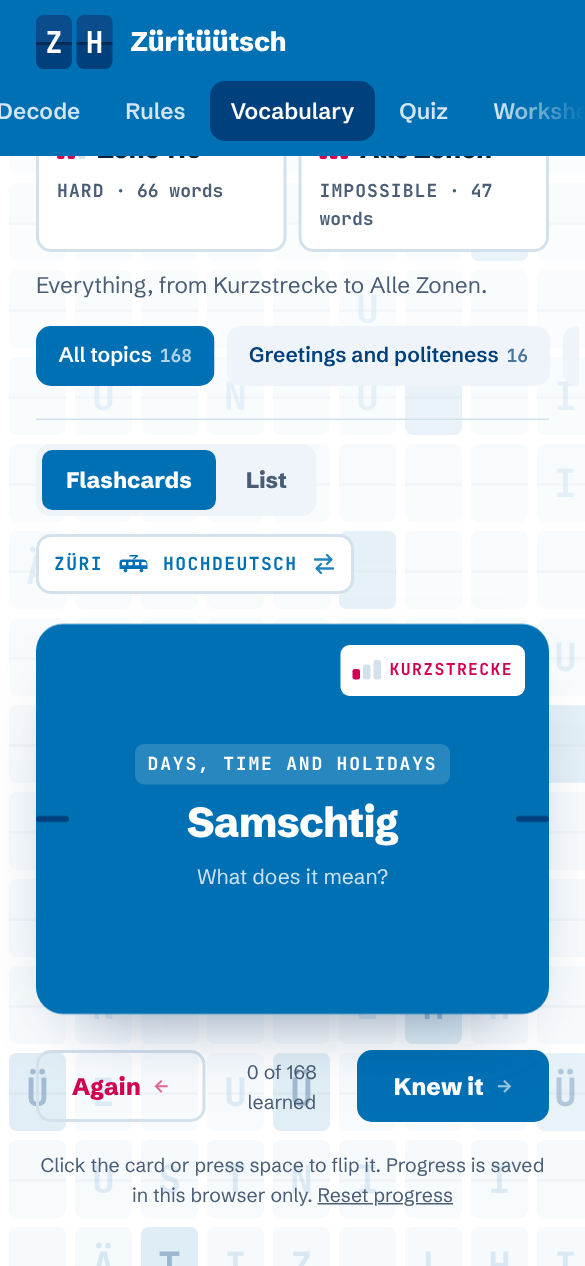
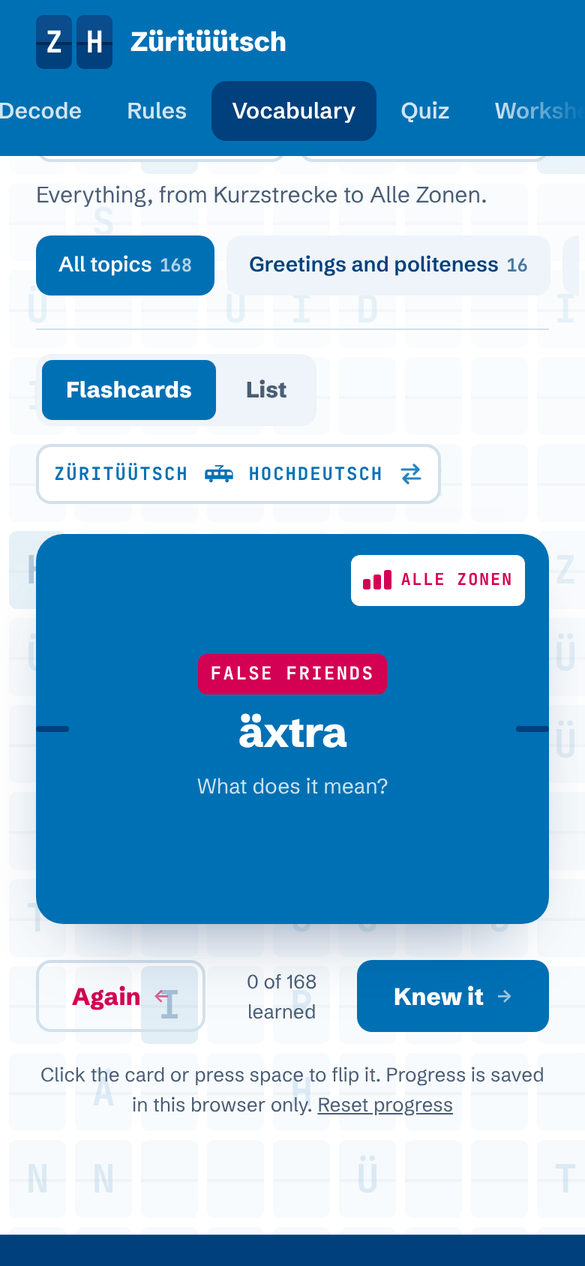
Footer sign-off, ß in Hochdeutsch, Standard German wording, Züritüütsch labels

diff --git a/data.js b/data.js
@@ -33,7 +33,7 @@ const RULES = [
     explain: "Many words with ei keep the old long i that Standard German turned into ei.",
     examples: [["Zeit", "Ziit"], ["mein", "miin"], ["bleiben", "bliibe"], ["schreiben", "schriibe"], ["Eis", "Iis"]],
     reverse: "Hear ii? Try ei.",
-    caveat: "Not every ei moves: zwei, heiss and Fleisch stay the same."
+    caveat: "Not every ei moves: zwei, heiß and Fleisch stay the same."
   },
   {
     id: "au",
@@ -58,15 +58,15 @@ const RULES = [
     from: "u (long)", to: "ue",
     title: "Where Hochdeutsch has a long u, you often hear ue",
     explain: "A gliding u-e sound where Standard German has a plain long u.",
-    examples: [["gut", "guet"], ["Bruder", "Brueder"], ["Fuss", "Fuess"], ["Kuh", "Chue"]],
+    examples: [["gut", "guet"], ["Bruder", "Brueder"], ["Fuß", "Fuess"], ["Kuh", "Chue"]],
     reverse: "Hear ue? Drop the e."
   },
   {
     id: "ueh",
     from: "ü (long)", to: "üe",
     title: "Where Hochdeutsch has a long ü, you often hear üe",
-    explain: "The umlauted version of ue. It's also hiding inside Grüezi (grüssen).",
-    examples: [["müde", "müed"], ["früh", "früe"], ["grüssen", "grüesse"], ["Füsse", "Füess"]],
+    explain: "The umlauted version of ue. It's also hiding inside Grüezi (grüßen).",
+    examples: [["müde", "müed"], ["früh", "früe"], ["grüßen", "grüesse"], ["Füße", "Füess"]],
     reverse: "Hear üe? Drop the e."
   },
   {
@@ -211,7 +211,7 @@ const VOCAB = [
   { zd: "gäll", hd: "nicht wahr?", cat: "small", lvl: 2 },
   { zd: "es hät", hd: "es gibt", cat: "small", lvl: 2 },
   { zd: "dihei", hd: "zu Hause", cat: "small", lvl: 2 },
-  { zd: "dusse", hd: "draussen", cat: "small", lvl: 2 },
+  { zd: "dusse", hd: "draußen", cat: "small", lvl: 2 },
   { zd: "öppe", hd: "etwa, ungefähr", cat: "small", lvl: 2 },
   { zd: "nüme", hd: "nicht mehr", cat: "small", lvl: 2 },
   { zd: "äbe", hd: "eben, genau", cat: "small", lvl: 2 },
@@ -244,7 +244,7 @@ const VOCAB = [
   { zd: "schnure", hd: "reden, plaudern", cat: "verbs", lvl: 3 },
   { zd: "chrampfe", hd: "hart arbeiten", cat: "verbs", lvl: 3 },
   { zd: "pfuse", hd: "schlafen", cat: "verbs", lvl: 3 },
-  { zd: "tschuute", hd: "Fussball spielen", cat: "verbs", lvl: 3 },
+  { zd: "tschuute", hd: "Fußball spielen", cat: "verbs", lvl: 3 },
   { zd: "chlöne", hd: "jammern", cat: "verbs", lvl: 3 },
   { zd: "glette", hd: "bügeln", cat: "verbs", lvl: 3 },
   { zd: "wüsche", hd: "fegen, kehren", cat: "verbs", lvl: 3 },
@@ -255,7 +255,7 @@ const VOCAB = [
   { zd: "Gfüül", hd: "Gefühl", cat: "feelings", lvl: 1 },
   { zd: "nöi", hd: "neu", cat: "feelings", lvl: 2, note: "Not nüü: one of the exceptions to rule 03." },
   { zd: "Fröid", hd: "Freude", cat: "feelings", lvl: 2, ex: "Das macht mer Fröid. = Das freut mich." },
-  { zd: "härzig", hd: "niedlich, süss", cat: "feelings", lvl: 3 },
+  { zd: "härzig", hd: "niedlich, süß", cat: "feelings", lvl: 3 },
 
   // Home and people
   { zd: "Mäntsch", hd: "Mensch", cat: "home", lvl: 1 },
@@ -268,7 +268,7 @@ const VOCAB = [
   { zd: "Ghüder", hd: "Müll", cat: "home", lvl: 3, ex: "de Ghüdersack = der Müllsack" },
   { zd: "Pfnüsel", hd: "Schnupfen", cat: "home", lvl: 3 },
   { zd: "Gotte / Götti", hd: "Patin / Pate", cat: "home", lvl: 3 },
-  { zd: "Bünzli", hd: "Spiesser", cat: "home", lvl: 3 },
+  { zd: "Bünzli", hd: "Spießer", cat: "home", lvl: 3 },
   { zd: "Zapfezieher", hd: "Korkenzieher", cat: "home", lvl: 3 },
 
   // Out and about
@@ -345,7 +345,7 @@ const VOCAB = [
   { zd: "Hosesack", hd: "Hosentasche", cat: "false-friends", lvl: 2 },
   { zd: "springe", hd: "rennen", cat: "false-friends", lvl: 3, note: "Not \"springen\"!" },
   { zd: "schmöcke", hd: "riechen", cat: "false-friends", lvl: 3, note: "Not \"schmecken\"!" },
-  { zd: "laufe", hd: "gehen (zu Fuss)", cat: "false-friends", lvl: 3, note: "Not \"rennen\"!" },
+  { zd: "laufe", hd: "gehen (zu Fuß)", cat: "false-friends", lvl: 3, note: "Not \"rennen\"!" },
   { zd: "äxtra", hd: "absichtlich", cat: "false-friends", lvl: 3, note: "Not \"extra\" as in additional." },
   { zd: "Puff", hd: "Unordnung", cat: "false-friends", lvl: 3, ex: "Was für es Puff! = Was für eine Unordnung!" },
   { zd: "Hafe", hd: "Kochtopf", cat: "false-friends", lvl: 3, note: "Not a harbour." },
@@ -392,7 +392,7 @@ const QUIZ = [
   { zd: "Chind", hd: ["Kind"], rules: ["k"], lvl: 1 },
   { zd: "Chuchi", hd: ["Küche"], rules: ["k"], lvl: 1 },
   { zd: "hüt", hd: ["heute"], rules: ["eu"], lvl: 1 },
-  { zd: "Fuess", hd: ["Fuss", "Fuß"], rules: ["ue"], lvl: 1 },
+  { zd: "Fuess", hd: ["Fuß"], rules: ["ue"], lvl: 1 },
   { zd: "gmacht", hd: ["gemacht"], rules: ["ge"], lvl: 1 },
   { zd: "mache", hd: ["machen"], rules: ["en"], lvl: 1 },
   { zd: "Wonig", hd: ["Wohnung"], rules: ["ung"], lvl: 1 },
@@ -412,11 +412,11 @@ const QUIZ = [
   { zd: "Rächnig", hd: ["Rechnung"], rules: ["ae", "ung"], lvl: 2 },
   { zd: "chaufe", hd: ["kaufen"], rules: ["k", "en"], lvl: 2 },
   { zd: "Hüüsli", hd: ["Häuschen"], rules: ["eu", "li"], lvl: 2 },
-  { zd: "grüesse", hd: ["grüssen", "grüßen"], rules: ["ueh", "en"], lvl: 2 },
+  { zd: "grüesse", hd: ["grüßen"], rules: ["ueh", "en"], lvl: 2 },
   { zd: "Das isch guet.", hd: ["Das ist gut."], rules: ["st", "ue"], lvl: 2 },
   { zd: "Ich bi müed.", hd: ["Ich bin müde."], rules: ["ueh"], lvl: 2 },
   { zd: "Chunnsch au?", hd: ["Kommst du auch?"], rules: ["k"], lvl: 2 },
-  { zd: "D Chind sind dusse.", hd: ["Die Kinder sind draussen.", "Die Kinder sind draußen."], rules: ["k"], lvl: 2 },
+  { zd: "D Chind sind dusse.", hd: ["Die Kinder sind draußen."], rules: ["k"], lvl: 2 },
   { zd: "Bisch scho lang da?", hd: ["Bist du schon lange da?", "Bist du schon lang da?"], rules: ["st"], lvl: 2 },
   { zd: "Ich ghöre nüt.", hd: ["Ich höre nichts."], rules: [], lvl: 2 },
   { zd: "Ich ha hüt kei Ziit.", hd: ["Ich habe heute keine Zeit.", "Ich hab heute keine Zeit."], rules: ["eu", "ei", "en"], lvl: 3 },
@@ -433,7 +433,7 @@ const QUIZ = [
   { zd: "Häsch am Ziischtig Ziit?", hd: ["Hast du am Dienstag Zeit?", "Hast du Dienstag Zeit?"], rules: ["ei"], lvl: 3 },
   { zd: "Es schiffet scho wider.", hd: ["Es regnet schon wieder.", "Es schüttet schon wieder."], rules: [], lvl: 3 },
   { zd: "Gäll, du chunnsch morn au?", hd: ["Du kommst morgen auch, oder?", "Du kommst morgen auch, nicht wahr?", "Nicht wahr, du kommst morgen auch?", "Gell, du kommst morgen auch?"], rules: ["k"], lvl: 3 },
-  { zd: "Das isch mega härzig.", hd: ["Das ist sehr niedlich.", "Das ist sehr süss.", "Das ist sehr süß.", "Das ist total süss.", "Das ist total niedlich."], rules: [], lvl: 3 },
+  { zd: "Das isch mega härzig.", hd: ["Das ist sehr niedlich.", "Das ist sehr süß.", "Das ist total süß.", "Das ist total niedlich."], rules: [], lvl: 3 },
   { zd: "Das isch e nöii Wonig.", hd: ["Das ist eine neue Wohnung."], rules: ["ung"], lvl: 3 }
 ];
 
@@ -705,7 +705,7 @@ const STORY = [
   {
     title: "Their written Hochdeutsch has a Swiss flavour of its own, starting with the missing ß.",
     text: [
-      "Swiss Standard German always writes ss: *Strasse*, *gross*, *Fussball*. The Canton of Zurich was the first to stop teaching the ß in schools, in 1935, and the *Neue Zürcher Zeitung* was the last Swiss newspaper to give it up, in 1974.",
+      "Swiss Standard German always writes ss: *Strasse*, *gross*, *Fussball*. (This site writes Hochdeutsch the way Germany and Austria do, with ß, since that's the German most visitors learned. When you type an answer, ss counts too.) The Canton of Zurich was the first to stop teaching the ß in schools, in 1935, and the *Neue Zürcher Zeitung* was the last Swiss newspaper to give it up, in 1974.",
       "It also has its own vocabulary, known as Helvetisms: *Spital* instead of Krankenhaus, *Velo* for bicycle, *Billett* for ticket, and many loanwords from French."
     ],
     sources: [

diff --git a/index.html b/index.html
@@ -53,7 +53,7 @@
           <div class="start-copy">
             <p class="kicker">For German speakers in and around Zurich</p>
             <h1 id="start-title">Zurich German, <span>seen through a translator's&nbsp;eye.</span></h1>
-            <p class="lede">Zurich German is not a variant of Hochdeutsch but a close relative: both descend from medieval German and developed along their own paths. This site is a practical guide to understanding and speaking it, for anyone who already speaks German and wants to feel at home in the language of the city.</p>
+            <p class="lede">Zurich German (Züritüütsch) is not a variant of Standard German (Hochdeutsch) but a close relative: both descend from medieval German and developed along their own paths. This site is a practical guide to understanding and speaking it, for anyone who already speaks German and wants to feel at home in the language of the city.</p>
             <div class="start-actions">
               <a class="btn btn-light" href="#decode">Start decoding</a>
               <a class="btn btn-on-blue" href="#story">Read the story</a>
@@ -61,7 +61,7 @@
           </div>
           <div class="board board-mini" aria-hidden="true">
             <div class="board-head">
-              <span class="board-label">Züri</span>
+              <span class="board-label">Züritüütsch</span>
               <span class="board-arrow"><svg class="tram" viewBox="0 0 30 18" aria-hidden="true" focusable="false"><path d="M11 .8h8L15 4.2" fill="none" stroke="currentColor" stroke-width="1.4" stroke-linejoin="round"/><path fill="currentColor" fill-rule="evenodd" d="M4 4.5h20.5c2.5 0 4.5 2 4.5 4.5v5H1V7.5a3 3 0 0 1 3-3ZM3.5 7h4v3.2h-4Zm6.5 0h4v3.2h-4Zm6.5 0h4v3.2h-4Zm6.5 0h3.2a1.8 1.8 0 0 1 1.8 1.8v1.4h-5Z"/><circle cx="7" cy="15.6" r="1.8" fill="currentColor"/><circle cx="23" cy="15.6" r="1.8" fill="currentColor"/></svg></span>
               <span class="board-label">Hochdeutsch</span>
             </div>
@@ -76,7 +76,7 @@
           <div class="intro-card">
             <span class="num" data-count="rules">13</span>
             <h2>Sound shifts</h2>
-            <p>Many Züritüütsch sounds line up with Hochdeutsch in regular ways. Learn the patterns once and many words decode themselves.</p>
+            <p>Many Zurich German sounds line up with Standard German in regular ways. Learn the patterns once and many words decode themselves.</p>
             <a class="link-arrow" href="#rules">See the rules</a>
           </div>
           <div class="intro-card">
@@ -88,7 +88,7 @@
           <div class="intro-card">
             <span class="num" data-count="quiz">52</span>
             <h2>Reverse-it quiz</h2>
-            <p>Read the Züritüütsch, type the Hochdeutsch, and see which rule did the work.</p>
+            <p>Read the Zurich German, type the Standard German, and see which rule did the work.</p>
             <a class="link-arrow" href="#quiz">Start the quiz</a>
           </div>
         </div>
@@ -97,7 +97,7 @@
 
         <aside class="about-note" aria-labelledby="about-title">
           <h2 id="about-title">Why this exists</h2>
-          <p>This guide was made by a trained translator with Turkish roots and a decade of studying and working in German, in Germany. When a new chapter took her to Zurich, she started picking up words from day one. With a translator's habit of looking for patterns and a musician's ear for sound, she noticed how regularly Zurich German lines up with Hochdeutsch, and kept listening more closely. Everything that helped her along the way is collected here: the sound patterns, the everyday words, practice, a listening plan and the story behind the dialect. It's for anyone who wants to hear and speak Zurich German faster.</p>
+          <p>This guide was made by a trained translator with Turkish roots and a decade of studying and working in German, in Germany. When a new chapter took her to Zurich, she started picking up words from day one. With a translator's habit of looking for patterns and a musician's ear for sound, she noticed how regularly Zurich German lines up with Standard German, and kept listening more closely. Everything that helped her along the way is collected here: the sound patterns, the everyday words, practice, a listening plan and the story behind the dialect. It's for anyone who wants to hear and speak Zurich German faster.</p>
         </aside>
       </div>
     </section>
@@ -120,7 +120,7 @@
           <div class="board" id="board" aria-live="polite">
             <div class="board-head">
               <button type="button" class="dir-toggle" id="dir-toggle" aria-label="Switch direction">
-                <span class="board-label" id="board-from">Züri</span>
+                <span class="board-label" id="board-from">Züritüütsch</span>
                 <span class="board-arrow" aria-hidden="true"><svg class="tram" viewBox="0 0 30 18" aria-hidden="true" focusable="false"><path d="M11 .8h8L15 4.2" fill="none" stroke="currentColor" stroke-width="1.4" stroke-linejoin="round"/><path fill="currentColor" fill-rule="evenodd" d="M4 4.5h20.5c2.5 0 4.5 2 4.5 4.5v5H1V7.5a3 3 0 0 1 3-3ZM3.5 7h4v3.2h-4Zm6.5 0h4v3.2h-4Zm6.5 0h4v3.2h-4Zm6.5 0h3.2a1.8 1.8 0 0 1 1.8 1.8v1.4h-5Z"/><circle cx="7" cy="15.6" r="1.8" fill="currentColor"/><circle cx="23" cy="15.6" r="1.8" fill="currentColor"/></svg></span>
                 <span class="board-label" id="board-to">Hochdeutsch</span>
                 <svg class="swap" viewBox="0 0 16 16" aria-hidden="true" focusable="false"><path d="M2 5h10.5M10 2l3 3-3 3M14 11H3.5M6 8l-3 3 3 3" fill="none" stroke="currentColor" stroke-width="1.6" stroke-linecap="round" stroke-linejoin="round"/></svg>
@@ -314,8 +314,14 @@
 
   <footer class="footer">
     <div class="wrap footer-row">
-      <p><span lang="gsw">Mit Liebi gmacht z Züri vo</span> <a href="https://github.com/cemreozertas">Cemre Özer Taş</a>. Swiss German has no official spelling, so you'll meet variants in the wild.</p>
-      <p><a href="https://github.com/cemreozertas">@cemreozertas</a> · <a href="https://github.com/" id="repo-link">Source on GitHub</a> · MIT licence<br>Visits are counted anonymously with <a href="https://www.goatcounter.com/">GoatCounter</a>: no cookies, no personal data.<br>Map data © <a href="https://www.openstreetmap.org/copyright">OpenStreetMap contributors</a><br>The level names are borrowed from ZVV tickets. This site isn't affiliated with ZVV.</p>
+      <div class="footer-about">
+        <p class="footer-bio"><a href="https://github.com/cemreozertas">Cemre</a> is a Zurich-based tinkerer at heart. She builds automations, templates and apps for creative minds who love a well-run life, with <a href="https://claude.ai/">Claude</a> as her building partner.</p>
+        <p class="footer-sign" lang="gsw">Mit Liebi gmacht z Züri.</p>
+      </div>
+      <div class="footer-meta">
+        <p>Swiss German has no official spelling, so you'll meet variants in the wild.</p>
+        <p><a href="https://github.com/cemreozertas">@cemreozertas</a> · <a href="https://github.com/" id="repo-link">Source on GitHub</a> · MIT licence<br>Visits are counted anonymously with <a href="https://www.goatcounter.com/">GoatCounter</a>: no cookies, no personal data.<br>Map data © <a href="https://www.openstreetmap.org/copyright">OpenStreetMap contributors</a><br>The level names are borrowed from ZVV tickets. This site isn't affiliated with ZVV.</p>
+      </div>
     </div>
   </footer>
 

diff --git a/app.js b/app.js
@@ -269,7 +269,7 @@
     "de": "der", "d": "die", "s": "das", "en": "ein", "e": "eine", "es": "ein (neutral) / es",
     "gseh": "gesehen", "chunnsch": "kommst du", "lueg": "schau!", "los": "hör zu!",
     "mueter": "Mutter", "vatter": "Vater", "spiil": "Spiel", "iichaufe": "einkaufen",
-    "wii": "Wein", "miin": "mein", "ziit": "Zeit", "gschänk": "Geschenk", "aabig": "Abend", "strass": "Strasse", "meitli": "Mädchen",
+    "wii": "Wein", "miin": "mein", "ziit": "Zeit", "gschänk": "Geschenk", "aabig": "Abend", "strass": "Straße", "meitli": "Mädchen",
     "höi": "Heu", "föif": "fünf", "nöii": "neue"
   };
 
@@ -288,7 +288,7 @@
   const LEXICON_HD = new Map();
   const firstVariant = (zd) => zd.split(" / ")[0].trim();
   function addToLexiconHd(hd, zd, source) {
-    hd.replace(/\s*\(.*?\)/g, "").split(/ \/ |, /).map(clean).filter(Boolean)
+    hd.replace(/\s*\(.*?\)/g, "").split(/ \/ |, /).map((w) => clean(w).replace(/ß/g, "ss")).filter(Boolean)
       .forEach((key) => { if (!LEXICON_HD.has(key)) LEXICON_HD.set(key, { zd: firstVariant(zd), source }); });
   }
   RULES.forEach((r) => r.examples.forEach(([hd, zd]) => addToLexiconHd(hd, zd, "rules:" + r.id)));
@@ -605,9 +605,9 @@
 
   let decoderDir = "zd2hd";
   const DIRS = {
-    zd2hd: { from: "Züri", to: "Hochdeutsch", label: "Type a word you heard", placeholder: "e.g. Ziitig, Chuchi, Hüüser",
+    zd2hd: { from: "Züritüütsch", to: "Hochdeutsch", label: "Type a word you heard", placeholder: "e.g. Ziitig, Chuchi, Hüüser",
       examples: ["Gschänk", "Chrüüz", "Buuch", "schmöcke", "Wurscht", "Hüüsli"], run: decode },
-    hd2zd: { from: "Hochdeutsch", to: "Züri", label: "Type a Hochdeutsch word", placeholder: "e.g. Zeitung, Küche, Häuser",
+    hd2zd: { from: "Hochdeutsch", to: "Züritüütsch", label: "Type a Hochdeutsch word", placeholder: "e.g. Zeitung, Küche, Häuser",
       examples: ["Geschenk", "Kreuz", "Bauch", "schmecken", "Wurst", "Häuschen"], run: encode }
   };
 
@@ -878,12 +878,12 @@
     const btn = $("#card-direction");
     btn.innerHTML = "";
     btn.append(
-      el("span", { text: zdFirst ? "Züri" : "Hochdeutsch" }),
+      el("span", { text: zdFirst ? "Züritüütsch" : "Hochdeutsch" }),
       tram(),
-      el("span", { text: zdFirst ? "Hochdeutsch" : "Züri" })
+      el("span", { text: zdFirst ? "Hochdeutsch" : "Züritüütsch" })
     );
     const t = document.createElement("template"); t.innerHTML = SWAP_SVG; btn.append(t.content.firstChild);
-    btn.setAttribute("aria-label", "Card direction: " + (zdFirst ? "Züri to Hochdeutsch" : "Hochdeutsch to Züri") + ". Click to switch.");
+    btn.setAttribute("aria-label", "Card direction: " + (zdFirst ? "Züritüütsch to Hochdeutsch" : "Hochdeutsch to Züritüütsch") + ". Click to switch.");
     btn.title = "Switch direction";
   }
 

diff --git a/styles.css b/styles.css
@@ -180,7 +180,7 @@ input[type="text"]:disabled { background: var(--panel); color: var(--ink-2); }
   box-shadow: 0 24px 48px -28px rgba(0, 20, 50, 0.6);
   container-type: inline-size; margin-bottom: 18px;
 }
-.board-head { display: flex; align-items: center; gap: 10px; margin-bottom: 16px; font-family: var(--mono); font-size: 0.75rem; font-weight: 700; text-transform: uppercase; letter-spacing: 0.1em; }
+.board-head { display: flex; flex-wrap: wrap; align-items: center; gap: 8px 10px; margin-bottom: 16px; font-family: var(--mono); font-size: 0.75rem; font-weight: 700; text-transform: uppercase; letter-spacing: 0.1em; }
 .board-label { opacity: 0.85; }
 .board-arrow { opacity: 0.6; }
 .board-status { white-space: nowrap; margin-left: auto; letter-spacing: 0.06em; background: rgba(255, 255, 255, 0.12); padding: 4px 8px; border-radius: var(--r-xs); }
@@ -344,8 +344,12 @@ input[type="text"]:disabled { background: var(--panel); color: var(--ink-2); }
 /* Footer */
 .footer { background: var(--dunkelblau); color: #fff; padding: 28px 0 36px; font-size: 0.875rem; }
 .footer a { color: #fff; }
-.footer-row { display: flex; flex-wrap: wrap; justify-content: space-between; gap: 12px; }
-.footer-row p { margin: 0; max-width: 620px; opacity: 0.9; }
+.footer-row { display: flex; flex-wrap: wrap; justify-content: space-between; gap: 24px 48px; }
+.footer-row p { margin: 0; }
+.footer-about { max-width: 560px; }
+.footer-bio { font-size: 0.9375rem; line-height: 1.55; }
+.footer-sign { margin-top: 10px !important; font-weight: 800; font-size: 1rem; letter-spacing: -0.01em; }
+.footer-meta { max-width: 460px; display: grid; gap: 10px; font-size: 0.8125rem; opacity: 0.8; }
 
 @media (prefers-reduced-motion: reduce) {
   *, *::before, *::after { animation: none !important; transition: none !important; }
@@ -647,7 +651,7 @@ body[data-bg="wall"] main::before, body[data-bg="wall"] .footer::before, .band-w
 .about-note p { margin: 0; color: var(--ink-2); }
 @media (max-width: 820px) {
   .band-start { padding: 40px 0 40px; }
-  .start-hero { grid-template-columns: 1fr; gap: 32px; }
+  .start-hero { grid-template-columns: minmax(0, 1fr); gap: 32px; }
   .lede { font-size: 1.0625rem; }
 }
 
@@ -712,3 +716,8 @@ body { min-height: 100vh; display: flex; flex-direction: column; }
 main { flex: 1 0 auto; display: flex; flex-direction: column; }
 #view-decode:not([hidden]) { flex: 1 0 auto; display: flex; flex-direction: column; }
 #view-decode .band { flex: 1 0 auto; }
+
+/* Very narrow phones: keep "translator's eye" on one line without running off the screen */
+@media (max-width: 380px) {
+  .band h1 { font-size: 1.875rem; }
+}

diff --git a/worksheets.js b/worksheets.js
@@ -27,8 +27,8 @@ const WORKSHEETS = [
       "Dihei mach ich mir es feins Zmittag. Am Namittag schiint d Sunne wider, und ich gang mit Fründe go Glace ässe. Es isch en schöne Tag gsi."
     ],
     translation: [
-      "Am Samstag stehe ich um acht auf. Zuerst mache ich mir einen Kaffee und schaue aus dem Fenster: Es regnet in Strömen. Egal, ich muss noch einkaufen gehen. Mit dem Fahrrad geht das nicht, also nehme ich die Strassenbahn.",
-      "In der Strassenbahn höre ich zwei Frauen plaudern. Die eine erzählt, dass ihr Bruder nach Bern umzieht. «Verflixt», sagt die andere, «dann sieht man ihn ja nicht mehr!»",
+      "Am Samstag stehe ich um acht auf. Zuerst mache ich mir einen Kaffee und schaue aus dem Fenster: Es regnet in Strömen. Egal, ich muss noch einkaufen gehen. Mit dem Fahrrad geht das nicht, also nehme ich die Straßenbahn.",
+      "In der Straßenbahn höre ich zwei Frauen plaudern. Die eine erzählt, dass ihr Bruder nach Bern umzieht. «Verflixt», sagt die andere, «dann sieht man ihn ja nicht mehr!»",
       "Im Laden kaufe ich Brot, Butter, Käse und ein paar Karotten. Beim Bezahlen fragt mich die Verkäuferin: «Brauchen Sie eine Tüte?» Ich sage: «Nein, danke.»",
       "Zu Hause mache ich mir ein feines Mittagessen. Am Nachmittag scheint die Sonne wieder, und ich gehe mit Freunden ein Eis essen. Es war ein schöner Tag."
     ],
@@ -39,7 +39,7 @@ const WORKSHEETS = [
         intro: "Read the text, then choose the right answer.",
         items: [
           { q: "Wie ist das Wetter am Morgen?", options: ["Es regnet stark.", "Die Sonne scheint.", "Es schneit."], answer: 0 },
-          { q: "Warum nimmt sie die Strassenbahn?", options: ["Sie hat kein Fahrrad.", "Bei diesem Regen geht es mit dem Fahrrad nicht.", "Die Strassenbahn ist gratis."], answer: 1 },
+          { q: "Warum nimmt sie die Straßenbahn?", options: ["Sie hat kein Fahrrad.", "Bei diesem Regen geht es mit dem Fahrrad nicht.", "Die Straßenbahn ist gratis."], answer: 1 },
           { q: "Was erzählt die eine Frau im Tram?", options: ["Ihr Bruder rennt nach Bern.", "Ihr Bruder arbeitet in Bern.", "Ihr Bruder zieht nach Bern um."], answer: 2 },
           { q: "Was kauft sie nicht?", options: ["Butter", "Kartoffeln", "Karotten", "Käse"], answer: 1 }
         ]

diff --git a/README.md b/README.md
@@ -14,7 +14,7 @@ Turkish is my mother tongue, German my second home, and Zurich German the langua
 
 Zurich German isn't a variant of Standard German but its close relative: both grew out of medieval German, and many of their sounds still line up in regular ways. (For the vowels, it was actually Standard German that changed, while Zurich German kept the older sound.) Learn about a dozen of these patterns, memorise the everyday words that follow no pattern at all, and train the skill that matters most when you're listening: **turning what you hear back into words you already know.** The decoder also works the other way round, from Hochdeutsch to Züritüütsch, for when you want to say something.
 
-**Who it's for:** anyone in or around Zurich who speaks German. It works best if you're comfortable in Hochdeutsch (about B1 and up), because the trick is reversing dialect into words you already know.
+**Who it's for:** anyone in or around Zurich who speaks German. It works best if you're comfortable in Standard German (Hochdeutsch, about B1 and up), because the trick is reversing dialect into words you already know.
 
 ## What's inside
 
@@ -42,7 +42,7 @@ Zurich German isn't a variant of Standard German but its close relative: both gr
 
 ## Design
 
-The look borrows from the split-flap departure board and uses Zurich's city colours, over a street map of Zurich from Oerlikon to Enge that stays still while the page scrolls. Every tab opens with a blue band. The three levels are named after Zurich's tram tickets: a short hop, the whole city, the whole canton. The practice pages (Decode, Vocabulary, Quiz and Worksheets) use a wall of faint split-flap tiles instead of the map, which now and then flip to a new letter. Colours: **Blau** with white as the main pair, **Dunkelblau** for the flaps, and **Magenta** as the one accent colour: for levels, wrong answers, exceptions and false friends, the numbers on the Start page and the story chapter you're reading. Right answers are light blue. The fonts are Schibsted Grotesk and JetBrains Mono, both served from this repo. Schibsted Grotesk is a sturdy newspaper grotesque in the spirit of Swiss poster type, and the same font is used across all of Cemre's Zurich projects.
+The look borrows from the split-flap departure board and uses Zurich's city colours, over a street map of Zurich from Oerlikon to Enge that stays still while the page scrolls. Every tab opens with a blue band. The three levels are named after Zurich's tram tickets: a short hop, the whole city, the whole canton. The practice pages (Decode, Vocabulary, Quiz and Worksheets) use a wall of faint split-flap tiles instead of the map, which now and then flip to a new letter. The colours come from the City of Zurich's palette: **Blue** with white as the main pair, **Dark Blue** for the flaps, and **Magenta** as the one accent colour: for levels, wrong answers, exceptions and false friends, the numbers on the Start page and the story chapter you're reading. Right answers are light blue. The fonts are Schibsted Grotesk and JetBrains Mono, both served from this repo. Schibsted Grotesk is a sturdy newspaper grotesque in the spirit of Swiss poster type, and the same font is used across all of Cemre's Zurich projects.
 
 ## How it's built
 
@@ -82,6 +82,8 @@ Swiss German has no official spelling. This app follows common Zurich usage, wit
 ## Credits
 
 [Cemre](https://github.com/cemreozertas) is a Zurich-based tinkerer at heart. She builds automations, templates and apps for creative minds who love a well-run life, with [Claude](https://claude.ai) as her building partner.
+
+***Mit Liebi gmacht z Züri.***
 
 The level names are borrowed from ZVV tickets; this project isn't affiliated with ZVV. Map data © [OpenStreetMap contributors](https://www.openstreetmap.org/copyright), via [EqualStreetNames Zürich](https://github.com/EqualStreetNames/equalstreetnames-zurich). Fonts: [Schibsted Grotesk](https://github.com/schibsted/schibsted-grotesk) and [JetBrains Mono](https://github.com/JetBrains/JetBrainsMono), both under the SIL Open Font License.
 
